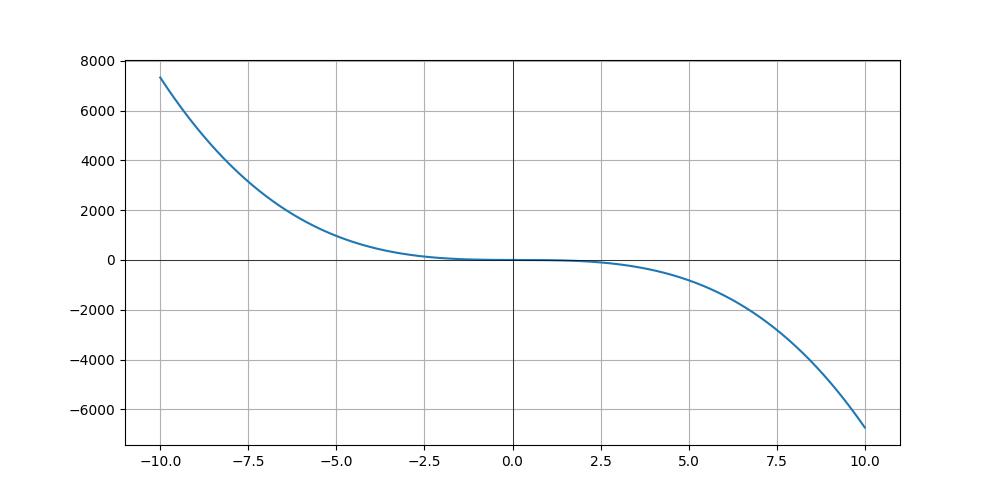
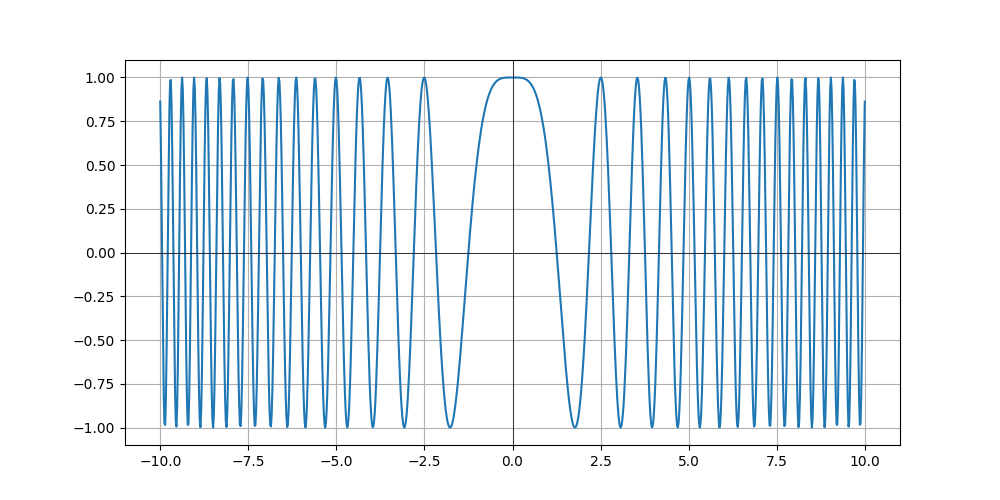
added possibility to enter arbitrary function

diff --git a/templates/polynom_solver.html b/templates/polynom_solver.html
@@ -5,6 +5,7 @@
     <meta name="viewport" content="width=device-width, initial-scale=1.0">
     <title>Polynomial Solver</title>
     <link href="{{ url_for('static', path='/polynom_solver.css') }}" rel="stylesheet">
+
 </head>
 <body>
 
@@ -27,21 +28,19 @@
                value="{% if k_for_constant is not none %}{{ k_for_constant }}{% else %}0{% endif %}">
     </div>
     <div class="board_block">
-        <label>Границы интервала:</label>
-        <input type="number" class="k_for_constant" name="left_board" step="any"
+        <label>Interval boundaries:</label>
+        <input type="number" class="intervals" name="left_board" step="any"
                value="{% if left_board is not none %}{{ left_board }}{% else %}-10{% endif %}">
-        <input type="number" class="k_for_constant" name="right_board" step="any"
+        <input type="number" class="intervals" name="right_board" step="any"
                value="{% if right_board is not none %}{{ right_board }}{% else %}10{% endif %}">
     </div>
     <div class="method_block">
-        <label>Метод:</label>
-
-        <select name="method" id="pet-select">
+        <label>Method:</label>
+        <select name="method">
             <option value="chord">Chord method</option>
             <option value="newton">Newton method</option>
             <option value="simple_iteration">Simple iteration method</option>
         </select>
-
     </div>
     <div class="accuracy_block">
         <label>Accuracy:</label>
@@ -50,6 +49,34 @@
     <button type="submit">Plot</button>
 </form>
 
+<h1>Enter your arbitrary function</h1>
+<form class="arbitrary_function_input_form" action="/arbitrary_function" method="post">
+    <div>
+        <label for="arbitrary_function">Enter your arbitrary function:</label>
+        <input type="text" id="arbitrary_function" name="arbitrary_function"
+               value="{% if arbitrary_function is not none %}{{ arbitrary_function }}{% else %}0{% endif %}">
+    </div>
+    <div class="board_block">
+        <label>Interval boundaries:</label>
+        <input type="number" class="intervals" name="left_board" step="any"
+               value="{% if left_board is not none %}{{ left_board }}{% else %}-10{% endif %}">
+        <input type="number" class="intervals" name="right_board" step="any"
+               value="{% if right_board is not none %}{{ right_board }}{% else %}10{% endif %}">
+    </div>
+    <div class="method_block">
+        <label>Method:</label>
+        <select name="method">
+            <option value="chord">Chord method</option>
+            <option value="newton">Newton method</option>
+<!--            <option value="simple_iteration">Simple iteration method</option>-->
+        </select>
+    </div>
+    <div class="accuracy_block">
+        <label>Accuracy:</label>
+        <input type="number" class="k_for_constant" name="accuracy" value="0.01">
+    </div>
+    <button type="submit">Plot</button>
+</form>
 
 <div class="plot_block">
     {% if plot_data %}

diff --git a/static/polynom_solver.css b/static/polynom_solver.css
@@ -1,15 +1,3 @@
-/*.k_for_x {*/
-/*    width: 40px;*/
-/*}*/
-
-/*.k_for_constant {*/
-/*    width: 40px;*/
-/*}*/
-
-/*.polynom_input_form {*/
-/*    display: flex;*/
-/*}*/
-
 body {
     font-family: Arial, sans-serif;
     margin: 0;
@@ -17,7 +5,7 @@ body {
     background-color: #f4f4f4;
 }
 
-h1{
+h1 {
     text-align: center;
 }
 
@@ -51,7 +39,7 @@ h1{
     border-color: #888;
 }
 
-.board_block,.accuracy_block {
+.board_block, .accuracy_block {
     margin-top: 10px;
 }
 
@@ -60,14 +48,70 @@ h1{
     text-align: center;
 }
 
-.programm_result{
-    /*width: 600px;*/
+.programm_result {
     margin-top: 20px;
     height: 500px;
     text-align: center;
 }
 
-#console{
+#console {
     width: 600px;
     height: 200px;
+}
+
+/* Стили для второй формы с произвольной функцией */
+.arbitrary_function_input_form {
+    max-width: 450px;
+    margin: 20px auto;
+    padding: 20px;
+    background-color: #fff;
+    border-radius: 8px;
+    box-shadow: 0 0 10px rgba(0, 0, 0, 0.1);
+}
+
+.arbitrary_function_input_form div {
+    margin-bottom: 10px;
+}
+
+.arbitrary_function_input_form input[type="text"],
+.arbitrary_function_input_form input[type="number"],
+.arbitrary_function_input_form select {
+    width: 100%;
+    padding: 8px;
+    border: 1px solid #ccc;
+    border-radius: 4px;
+    box-sizing: border-box;
+}
+
+.arbitrary_function_input_form input[type="number"].intervals{
+    width: 70px;
+}
+
+.arbitrary_function_input_form input[type="text"]:focus,
+.arbitrary_function_input_form input[type="number"]:focus,
+.arbitrary_function_input_form select:focus {
+    outline: none;
+    border-color: #4caf50;
+}
+
+.arbitrary_function_input_form input[type="text"]:hover,
+.arbitrary_function_input_form input[type="number"]:hover,
+.arbitrary_function_input_form select:hover {
+    border-color: #888;
+}
+
+
+button {
+    margin-top: 10px;
+    width: 100%;
+    padding: 10px;
+    background-color: #4caf50;
+    color: white;
+    border: none;
+    border-radius: 4px;
+    cursor: pointer;
+}
+
+button:hover {
+    background-color: #45a049;
 }

diff --git a/src/controller/polynom_solver.py b/src/controller/polynom_solver.py
@@ -20,7 +20,8 @@ async def polynomial_solver(request: Request):
         'k_for_constant': 0,
         'left_board': -10,
         'right_board': 10,
-        'accuracy': 0.01
+        'accuracy': 0.01,
+        'arbitrary_function': "sin(x)"
     }
     return templates.TemplateResponse("polynom_solver.html", default_values)
 
@@ -30,10 +31,9 @@ async def plot_graph(request: Request, k_for_x_3: float = Form(...), k_for_x_2: 
                      k_for_x_1: float = Form(...), k_for_constant: float = Form(...),
                      left_board: float = Form(...), right_board: float = Form(...),
                      accuracy: float = Form(...), method: str = Form(...)):
-
     func = create_lambda_function(f"{k_for_x_3}*x**3+{k_for_x_2}*x**2+{k_for_x_1}*x+{k_for_constant}")
 
-    generate_plot([k_for_constant, k_for_x_1, k_for_x_2, k_for_x_3], left_board, right_board, accuracy)
+    generate_plot(func, left_board, right_board, accuracy)
 
     print(method)
     try:
@@ -62,6 +62,40 @@ async def plot_graph(request: Request, k_for_x_3: float = Form(...), k_for_x_2: 
                                           'k_for_x_2': k_for_x_2,
                                           'k_for_x_1': k_for_x_1,
                                           'k_for_constant': k_for_constant,
+                                          'left_board': left_board,
+                                          'right_board': right_board,
+                                          'accuracy': accuracy
+                                      })
+
+
+@router.post("/arbitrary_function")
+async def plot_graph_by_arbitrary_function(request: Request, arbitrary_function: str = Form(...),
+                                           left_board: float = Form(...), right_board: float = Form(...),
+                                           accuracy: float = Form(...), method: str = Form(...)):
+    func = create_lambda_function(arbitrary_function)
+
+    generate_plot(func, left_board, right_board, accuracy)
+
+    print(method)
+    try:
+        if method == "chord":
+            result = solve_with_chords(left_board, right_board,
+                                       func,
+                                       accuracy)
+        elif method == "newton":
+            result = solve_with_newton(left_board, right_board,
+                                       func,
+                                       accuracy)
+
+    except Exception as e:
+        result = e
+
+    return templates.TemplateResponse("polynom_solver.html",
+                                      {
+                                          "request": request,
+                                          "plot_data": "static/images/image.png",
+                                          "result": result,
+                                          'arbitrary_function': arbitrary_function,
                                           'left_board': left_board,
                                           'right_board': right_board,
                                           'accuracy': accuracy

diff --git a/src/util/plot_generator.py b/src/util/plot_generator.py
@@ -3,12 +3,12 @@ import numpy as np
 from matplotlib import pyplot as plt
 
 
-def generate_plot(koeffs, left_board, right_board, accuracy):
+def generate_plot(func, left_board, right_board, accuracy):
     x = np.linspace(left_board, right_board, 1000)
-    y = sum(koeff * x ** i for i, koeff in enumerate(koeffs))
+    # y = k_for_x_3 * x ** 3 + k_for_x_2 * x ** 2 + k_for_x_1 * x + k_for_constant
     # Создание графика
     fig, ax = plt.subplots(figsize=(10, 5))
-    ax.plot(x, y)
+    ax.plot(x, [func(item) for item in x])
 
     # Добавление линий осей
     ax.axhline(0, color='black', linewidth=0.5)  # Горизонтальная линия оси Y
